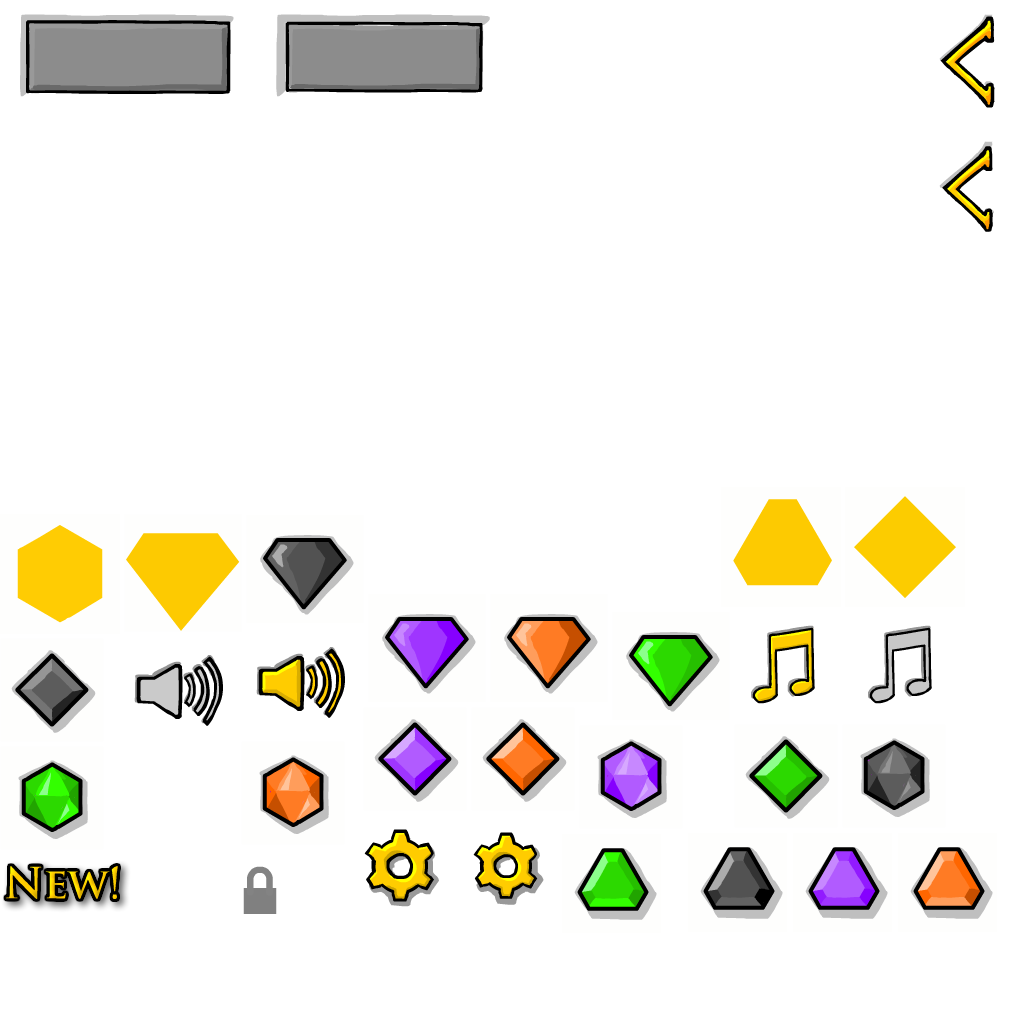
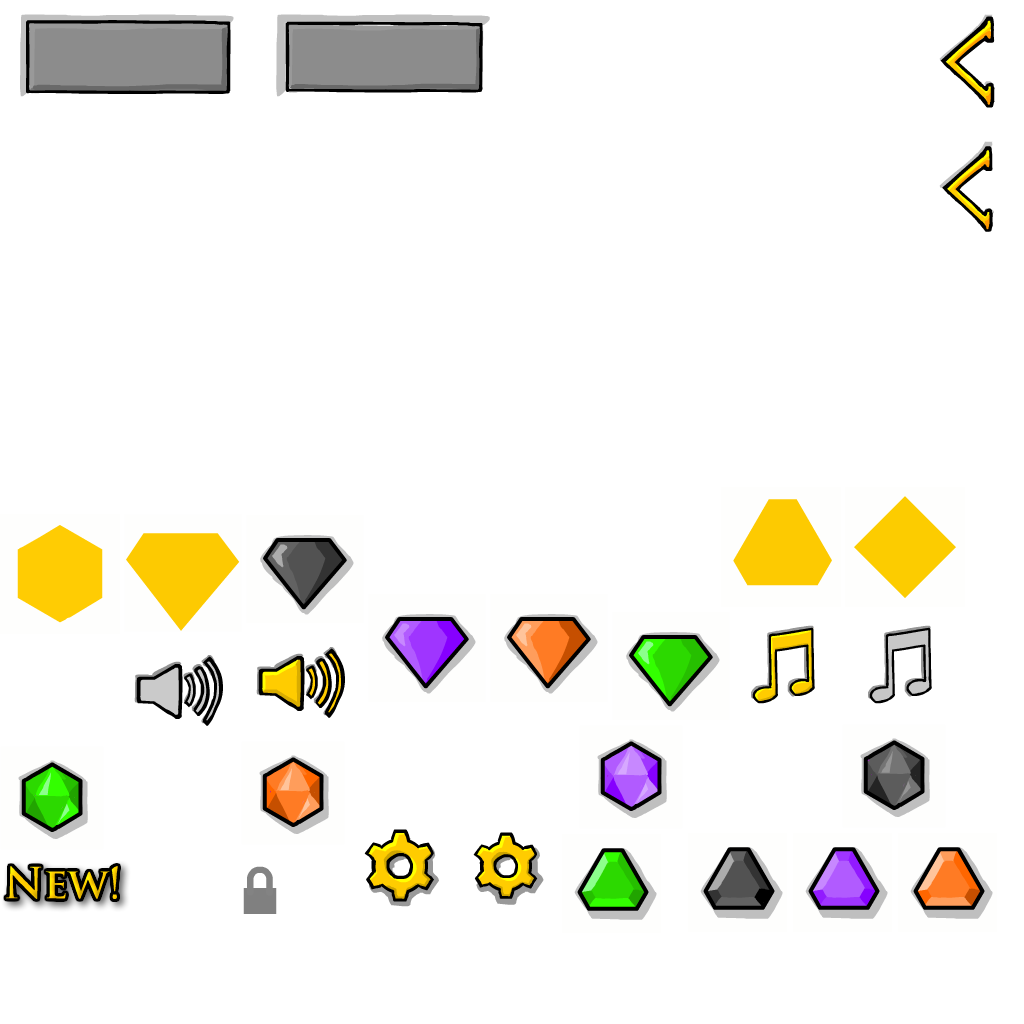
perf(r31): 菜单图集再清 dark 星碑 4 帧——森林无 dark 关，底座因树烘焙静态取四前缀保留；PNG 累计 −108.9KB

Changed region(s): [[0.3438, 0.6875, 0.5625, 0.7812], [0.7188, 0.7188, 0.8125, 0.8125], [0.0, 0.625, 0.0938, 0.7188]]

diff --git a/gyのFW/packages/client/src/__tests__/atlas-slim.test.ts b/gyのFW/packages/client/src/__tests__/atlas-slim.test.ts
@@ -27,13 +27,14 @@ const TT = 180000;
 /** 冻结账目：数字一改（需求集/图集/代码）这里先红，逼着复核后同步更新
  *  r29 起 popup 只剩进房即上屏的 6 帧（暂停键/板底/彩带 4 帧），结算面拆到 PopupFinish* 三张，
  *  清零面因此从 31 涨到 105（74 结算帧 + 31 旧零消费帧）。拆出面的像素账在 popup-finish.test.ts。
- *  r31 起 menu 33 keep／27 blank：选关星碑四套（16 帧）+ 四张底座 + 按钮/HUD 13 帧；
- *  清零的是原版设置/触屏/振动/解锁 UI 族（含 12 帧 ToggleSingleScreen）。 */
+ *  r31 起 menu 29 keep／31 blank：选关星碑三型（12 帧，森林无 dark）+ 四张底座 + 按钮/HUD 13 帧；
+ *  清零的是原版设置/触屏/振动/解锁 UI 族（含 12 帧 ToggleSingleScreen）与 dark 星碑 4 帧
+ *  （底座 DiamondDark_Bkg_Mask0000 例外：树烘焙按四前缀静态取）。 */
 const FROZEN = {
   mech: { declared: 163, keep: 67, blank: 96 },
   temple: { declared: 60, keep: 56, blank: 4 },
   popup: { declared: 111, keep: 6, blank: 105 },
-  menu: { declared: 60, keep: 33, blank: 27 },
+  menu: { declared: 60, keep: 29, blank: 31 },
 };
 
 type Inspect = Awaited<ReturnType<typeof inspect>>;
@@ -148,12 +149,14 @@ describe("需求口径与清零面", () => {
     for (let i = 0; i < 4; i++) expect(needs.atlases.popup.keep).toContain(`Confetti${String(i).padStart(4, "0")}`);
   });
 
-  it("菜单图集：选关星碑四套/底座与按钮留在 keep，原版未用 UI 族清零", () => {
+  it("菜单图集：选关星碑/底座与按钮留在 keep，原版未用 UI 族与 dark 星碑清零", () => {
     const keep = needs.atlases.menu.keep;
-    for (const p of ["Diamond", "DiamondSpeed", "DiamondPuzzle", "DiamondDark"]) {
+    for (const p of ["Diamond", "DiamondSpeed", "DiamondPuzzle"]) {
       for (let i = 0; i < 4; i++) expect(keep, `${p}${String(i).padStart(4, "0")}`).toContain(`${p}${String(i).padStart(4, "0")}`);
       expect(keep, `${p}_Bkg_Mask0000`).toContain(`${p}_Bkg_Mask0000`);
     }
+    // dark 星碑不可达（森林类型断言），底座因树烘焙静态取四前缀而保留
+    expect(keep, "DiamondDark_Bkg_Mask0000").toContain("DiamondDark_Bkg_Mask0000");
     for (const n of [
       "MusicButton0000", "MusicButton0001", "FxButton0000", "FxButton0001",
       "SettingsButton0002", "SettingsButton0003", "StoneButton0000", "StoneButton0001",
@@ -165,6 +168,7 @@ describe("需求口径与清零面", () => {
       "SettingsButton0000", "SettingsButton0001", "MuteButton0000", "MuteButton0001",
       "VibrateButton0000", "VibrateButton0001", "GoldLock0000", "UnlockButton0000",
       "BackButtonFull0000", "BackButtonFull0001", "_default0000",
+      "DiamondDark0000", "DiamondDark0001", "DiamondDark0002", "DiamondDark0003",
     ]) expect(blank, n).toContain(n);
   });
 

diff --git a/gyのFW/packages/client/src/scenes/BootScene.ts b/gyのFW/packages/client/src/scenes/BootScene.ts
@@ -49,7 +49,7 @@ export const ATLAS_PRELOADER = "preloader";
  *  先跑的一处会把图装进缓存，其余处按"键已存在"静默跳过，混用会让 Slim 是否生效取决于装载序。
  *  r30 起机关图集不再有整关共用的 Slim：48 关按消费帧集分成 24 个变体，由 `loadMechAtlas`
  *  用运行时算出的 id 取 `mech/MechAssets-<id>.{png,json}`（生成器 scripts/split-mech-atlas.mjs）。
- *  r31 起菜单图集同样走原地清零（Boot 批：195,797→91,721B），只有 Boot 这一处装载。 */
+ *  r31 起菜单图集同样走原地清零（Boot 批：195,797→84,297B），只有 Boot 这一处装载。 */
 export const ATLAS_TEMPLE_PNG = "/assets/atlasses/Temples/forest/TempleAssetsSlim.png";
 export const ATLAS_POPUP_PNG = "/assets/atlasses/PopupAssetsSlim.png";
 export const ATLAS_MENU_PNG = "/assets/atlasses/MenuAssetsSlim.png";
